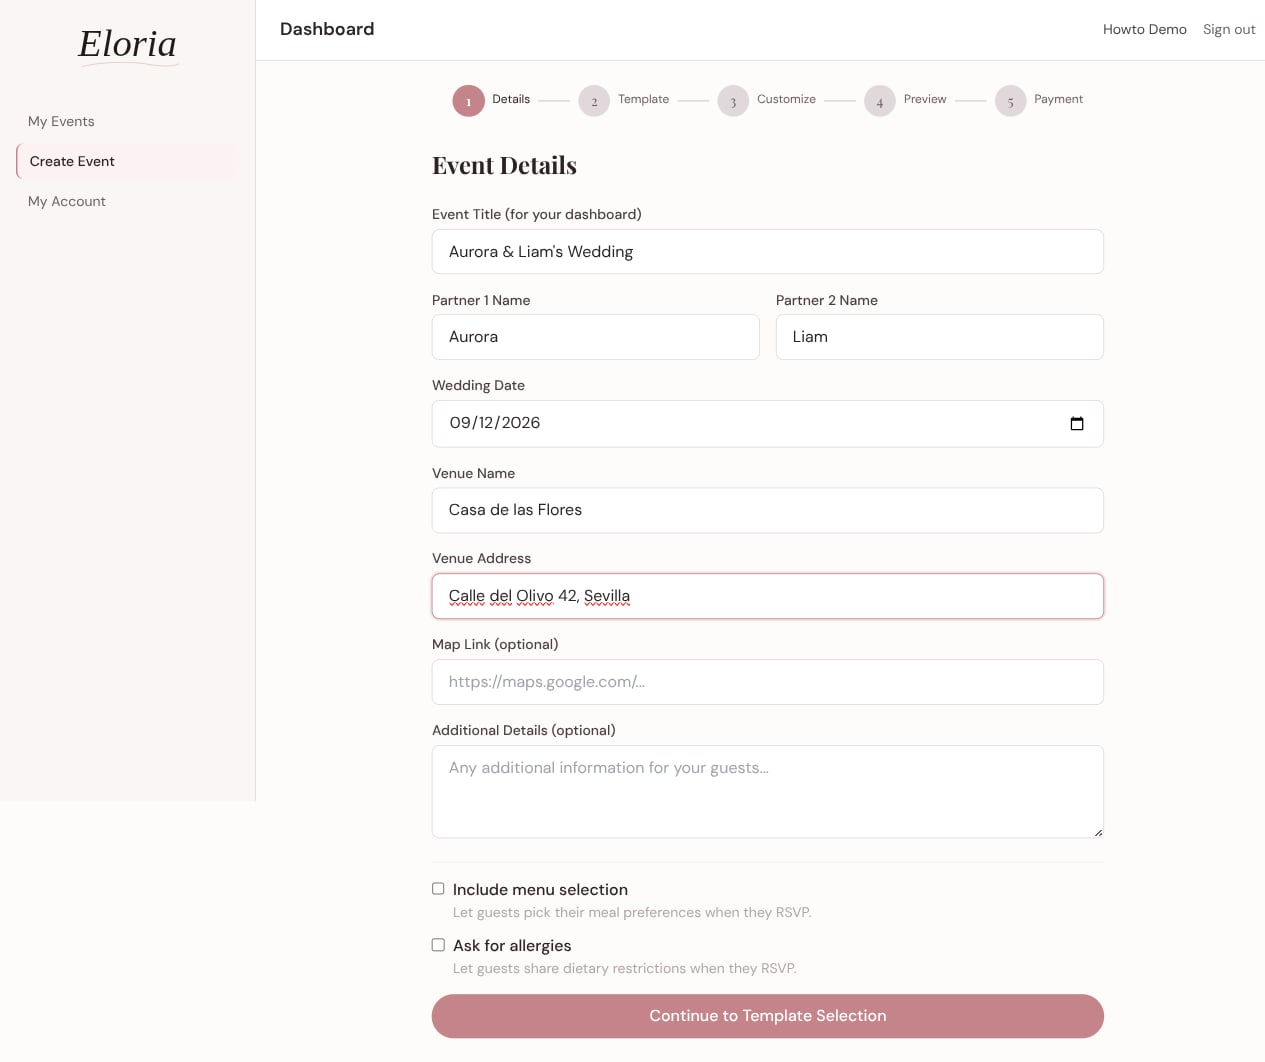
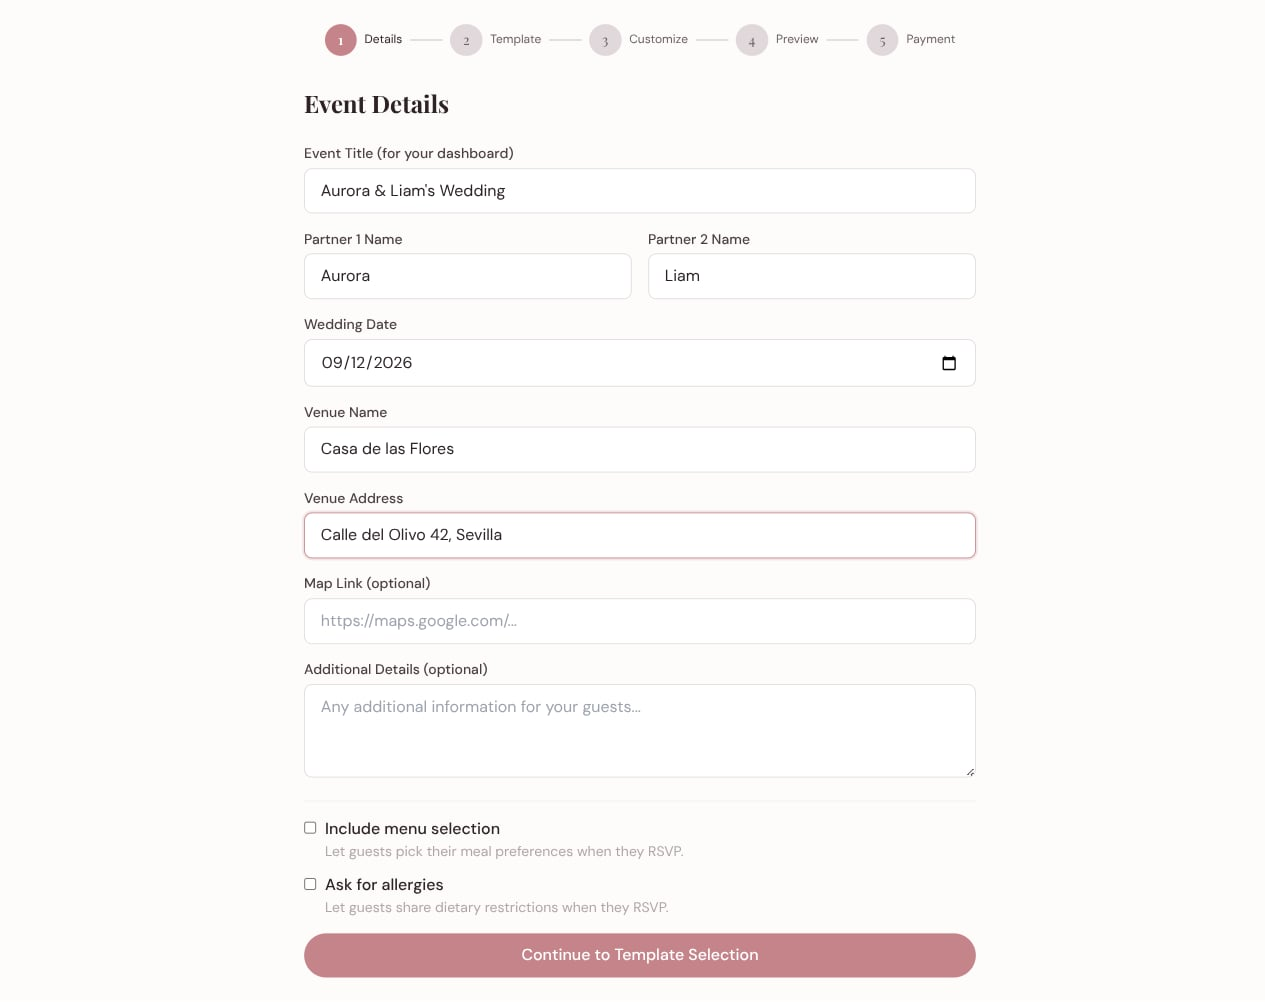
feat(how-it-works): recapture screenshots without dashboard chrome
Crop out the dashboard sidebar and top bar from each wizard step
screenshot so the marketing page shows just the wizard content.
Update the steps array heights to match the new image dimensions.

diff --git a/pages/how-it-works.vue b/pages/how-it-works.vue
@@ -12,11 +12,11 @@ useSeoMeta({
 })
 
 const steps = [
-  { n: 1, image: '/images/how-it-works/step-1-details.jpg',   width: 1265, height: 1062 },
-  { n: 2, image: '/images/how-it-works/step-2-templates.jpg', width: 1265, height: 2012 },
-  { n: 3, image: '/images/how-it-works/step-3-customize.jpg', width: 1265, height: 937 },
-  { n: 4, image: '/images/how-it-works/step-4-preview.jpg',   width: 1265, height: 1221 },
-  { n: 5, image: '/images/how-it-works/step-5-publish.jpg',   width: 1265, height: 1174 },
+  { n: 1, image: '/images/how-it-works/step-1-details.jpg',   width: 1265, height: 1002 },
+  { n: 2, image: '/images/how-it-works/step-2-templates.jpg', width: 1265, height: 1951 },
+  { n: 3, image: '/images/how-it-works/step-3-customize.jpg', width: 1265, height: 876 },
+  { n: 4, image: '/images/how-it-works/step-4-preview.jpg',   width: 1265, height: 1160 },
+  { n: 5, image: '/images/how-it-works/step-5-publish.jpg',   width: 1265, height: 1113 },
 ]
 </script>
 
